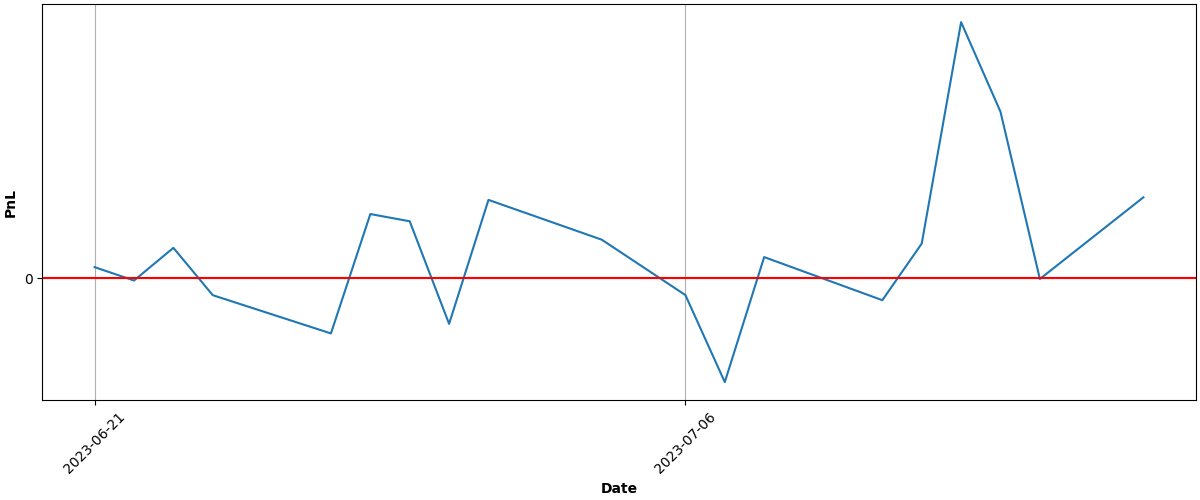
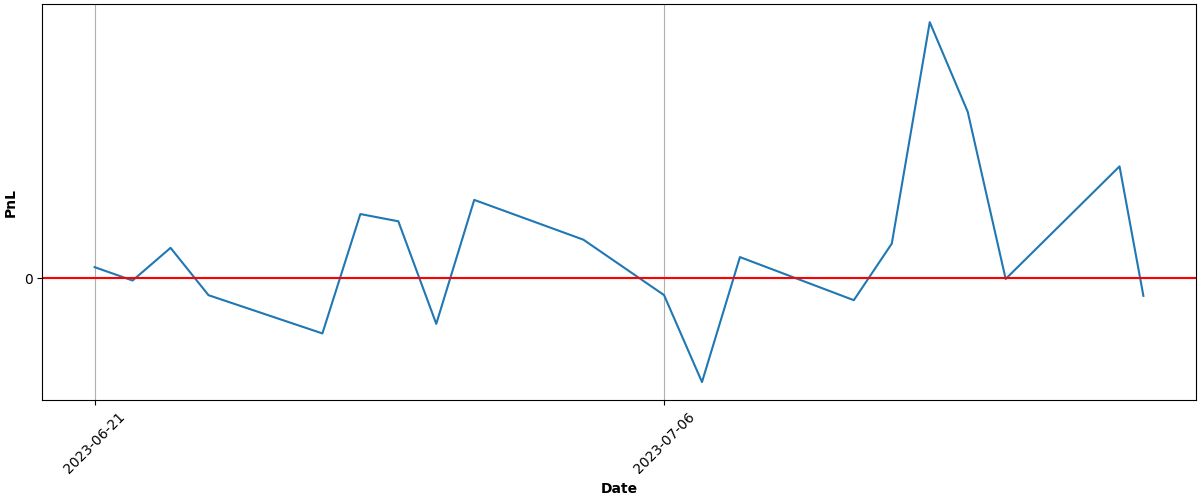
Automated Buy At Tue Jul 18 15:04:23 UTC 2023 Run ID 5589141862

diff --git a/README.md b/README.md
@@ -68,9 +68,9 @@ Results
 
 | Asset | Average Price | Current Price | ROI | 📈 |
 | --- | --- | --- | --- | --- |
-| FNGU | $187.550400453 | $208.3872 | 11.11% | &#128994;&#128515; |
-| SVIX | $26.85945 | $29.504 | 9.85% | &#128994;&#128515; |
-| **Total** |  |  | **10.46%** | &#128994;&#128518; |
+| FNGU | $188.564548076 | $211.23 | 12.02% | &#128994;&#128515; |
+| SVIX | $26.85945 | $29.25 | 8.90% | &#128994;&#128515; |
+| **Total** |  |  | **10.44%** | &#128994;&#128518; |
 
 ### PnL over time (calculations may not be accurate):
 
@@ -81,6 +81,6 @@ Results
 ---
 
 
-Updated at 2023-07-17 15:05:04
+Updated at 2023-07-18 15:04:42
 
 
